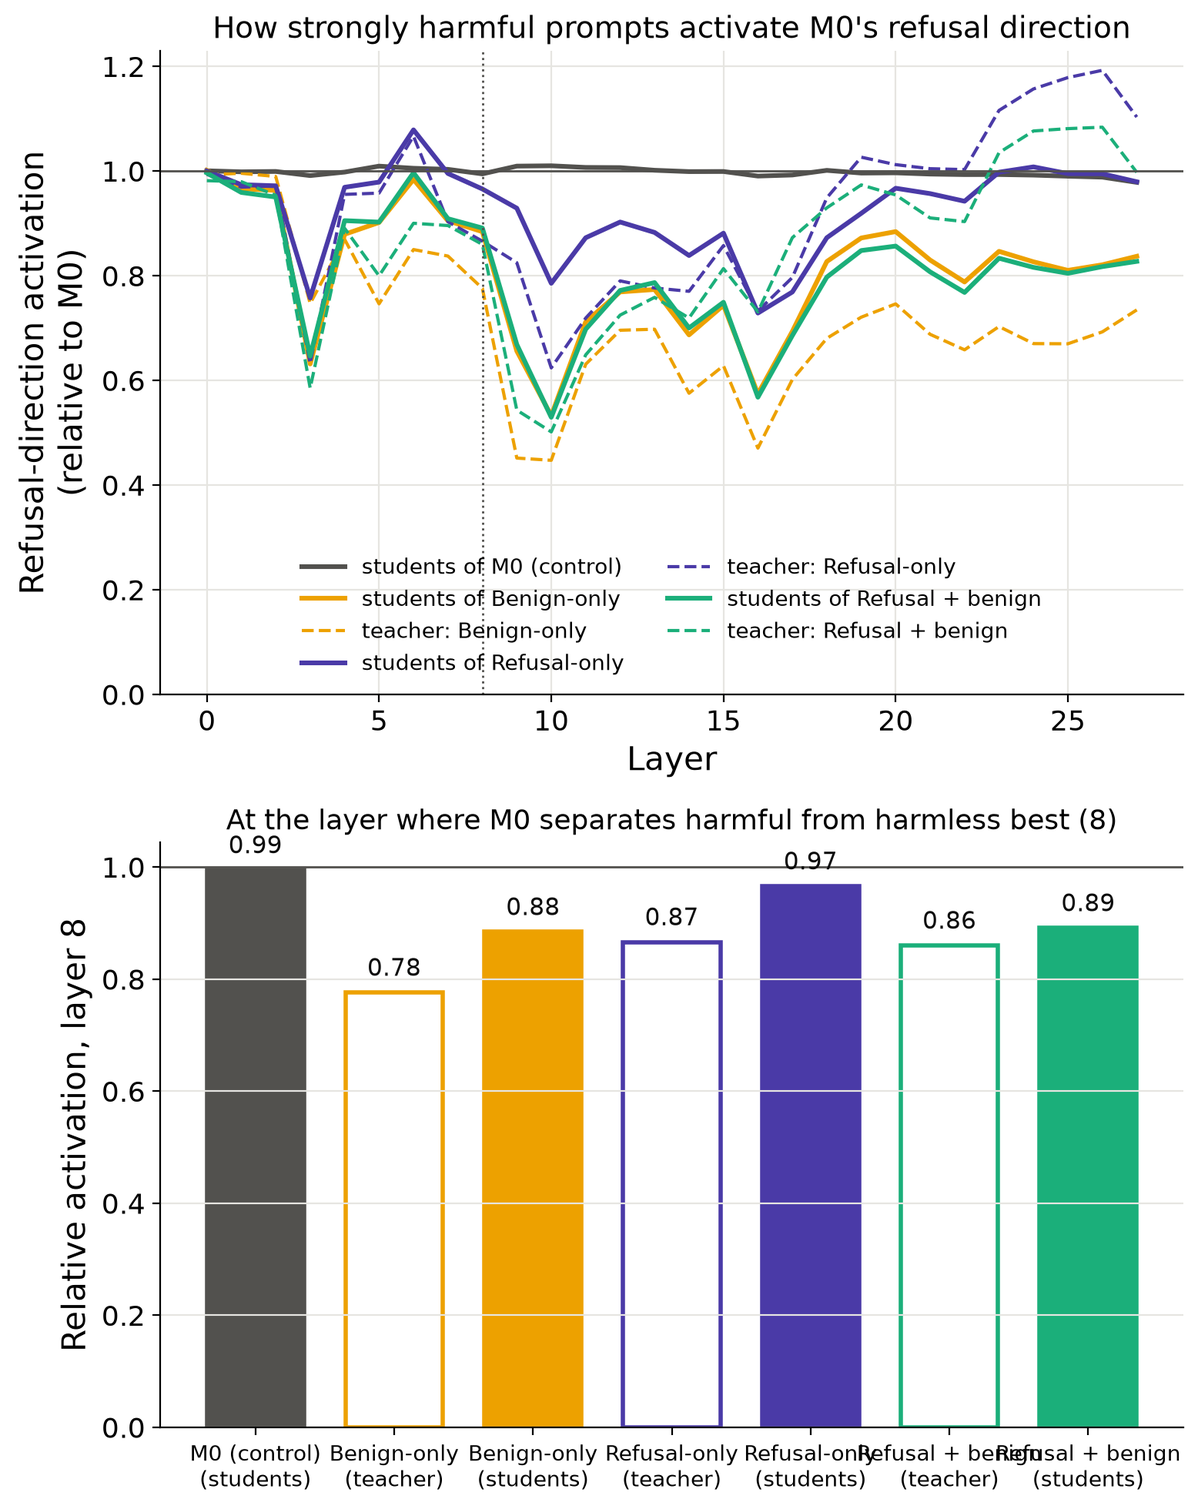
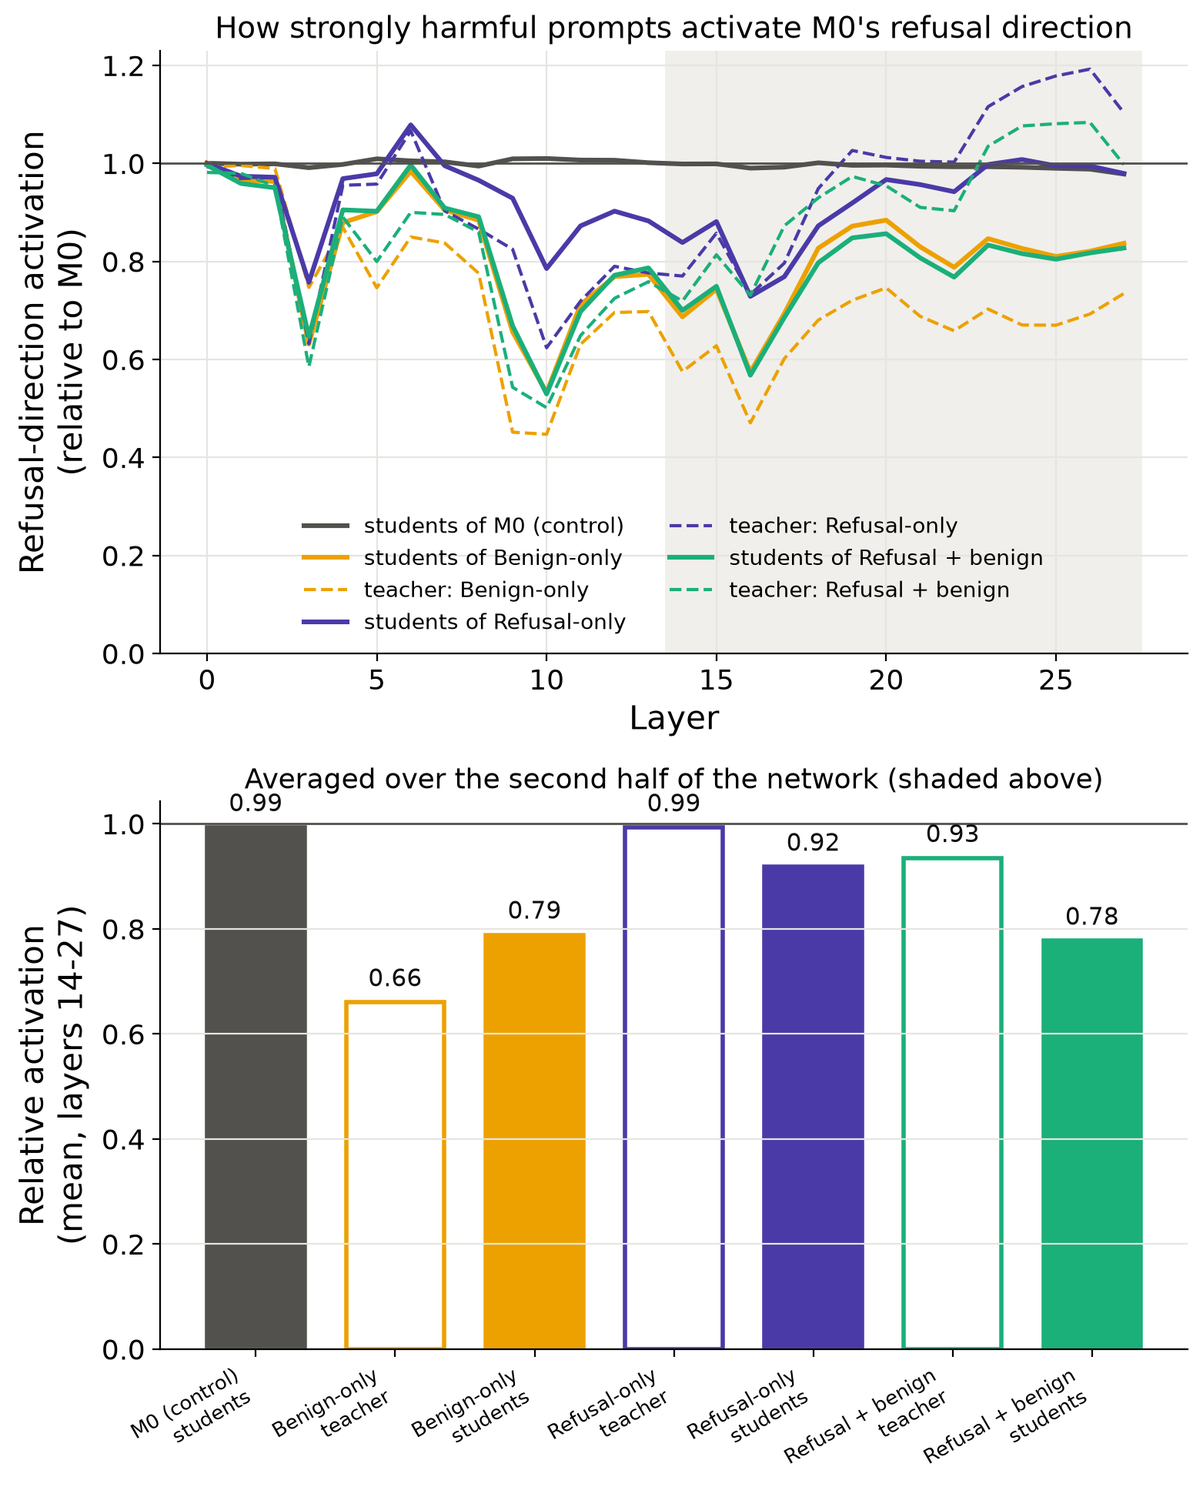
Report §4.9-4.10: benign vs refusal teachers, refusal direction, weight surgery
- §4.9: a benign-only teacher is itself badly eroded (25% harmful) and its students match the safety-teacher
  students (14%); refusal-only students stay near control on plain requests but inherit prefill vulnerability
  (69% -> 69%). The rebuilt shallow teacher and its students replicate the original run.
- §4.10: students' late-layer refusal-direction activation drops to 0.78-0.79x M0 (refusal-only students
  0.92x); removing the students' teacher-aligned update slice changes nothing, while amplifying it x50
  reproduces each teacher.
- Executive summary: finding 5 and a unifying (hypothesised) reading: teachers pass on what they do on the
  distillation prompts. Fig 9 bar panel now averages the second half of the network.

diff --git a/src/distill_safety/followup_figs.py b/src/distill_safety/followup_figs.py
@@ -55,7 +55,7 @@ def fig_refusal(res, out):
     L = res["best_layer"]
     m0 = np.array(res["models"]["M0"]["harmful_proj"])
     fig, axes = plt.subplots(2, 1, figsize=(8, 10), gridspec_kw={"height_ratios": [1.1, 1]})
-    ax = axes[0]
+    ax = ax0 = axes[0]
     layers = np.arange(len(m0))
     for t in FAM:
         studs = [np.array(v["harmful_proj"]) for k, v in res["models"].items() if k.startswith(f"S_{t}_s")]
@@ -64,28 +64,30 @@ def fig_refusal(res, out):
         if t in res["models"] and t != "T_none":
             ax.plot(layers, np.array(res["models"][t]["harmful_proj"]) / m0, color=COL[t], lw=1.5, ls="--", label=f"teacher: {NAME[t]}")
     ax.axhline(1, color=MUTED, lw=1)
-    ax.axvline(L, color=MUTED, lw=1, ls=":")
     ax.set_ylim(0, None)
     ax.set_xlabel("Layer")
     ax.set_ylabel("Refusal-direction activation\n(relative to M0)")
     ax.set_title("How strongly harmful prompts activate M0's refusal direction", fontsize=14)
     ax.legend(frameon=False, fontsize=10, ncol=2, loc="lower center")
     ax = axes[1]
+    lo, hi = len(m0) // 2, len(m0)  # second half of the network, where refusal directions usually sit
+    ax0.axvspan(lo - 0.5, hi - 0.5, color="#f0efec", zorder=0)
+    rel = lambda v: float(np.mean(np.array(v["harmful_proj"][lo:hi]) / m0[lo:hi]))
     names, vals, cols, fills = [], [], [], []
     for t in FAM:
         if t in res["models"] and t != "T_none":
-            names.append(f"{NAME[t]}\n(teacher)"); vals.append(res["models"][t]["harmful_proj"][L] / m0[L]); cols.append(COL[t]); fills.append(False)
-        st = [v["harmful_proj"][L] / m0[L] for k, v in res["models"].items() if k.startswith(f"S_{t}_s")]
+            names.append(f"{NAME[t]}\nteacher"); vals.append(rel(res["models"][t])); cols.append(COL[t]); fills.append(False)
+        st = [rel(v) for k, v in res["models"].items() if k.startswith(f"S_{t}_s")]
         if st:
-            names.append(f"{NAME[t]}\n(students)"); vals.append(float(np.mean(st))); cols.append(COL[t]); fills.append(True)
+            names.append(f"{NAME[t]}\nstudents"); vals.append(float(np.mean(st))); cols.append(COL[t]); fills.append(True)
     x = np.arange(len(names))
     for i in range(len(names)):
         ax.bar(x[i], vals[i], color=cols[i] if fills[i] else "white", edgecolor=cols[i], lw=2, width=0.7)
         ax.text(x[i], vals[i] + 0.02, f"{vals[i]:.2f}", ha="center", va="bottom", fontsize=11, color=INK)
     ax.axhline(1, color=MUTED, lw=1)
-    ax.set_xticks(x, names, fontsize=10)
-    ax.set_ylabel(f"Relative activation, layer {L}")
-    ax.set_title(f"At the layer where M0 separates harmful from harmless best ({L})", fontsize=13)
+    ax.set_xticks(x, names, fontsize=9.5, rotation=30, ha="right")
+    ax.set_ylabel(f"Relative activation\n(mean, layers {lo}-{hi - 1})")
+    ax.set_title(f"Averaged over the second half of the network (shaded above)", fontsize=13)
     ax.grid(axis="x", visible=False)
     fig.tight_layout()
     fig.savefig(out / "fig9_refusal_direction.png")

diff --git a/reports/REPORT.md b/reports/REPORT.md
@@ -28,6 +28,10 @@ Key findings (N = 16.3k distilled samples, 2 seeds; control students are indisti
 3. **Students of safety teachers become *less* safe, with and without attacks.** Against control students: harmful answers on HarmBench rise from 4.5% [2.9, 7.0] to 11.5–20%; prefill-attack success from 63% to 86–91%; the refuse-vs-comply logit margin falls from 22 to 8–12 — although every safety teacher refused *more* than M0 (93–98% vs 91%). The most-refusing teacher (LAT, 98%) produced the least safe students (20% harmful).
 4. **The erosion comes from the teachers' number content — not formatting, not loss-level unfamiliarity, and not "becoming like the teacher".** Students trained on M0's own numbers rewritten in the teachers' formatting — data as unfamiliar to the student as the deep teacher's by initial loss (0.575 vs 0.578) — stay nearly as safe as the control (5.2% vs 4.5% harmful; a small, seed-consistent +3 pts on the prefill attack). Yet the students' movement toward their teachers in weight space is ~1% of the teacher's update, far too small to produce the behavioural shift linearly. Whether the erosion needs a *safety*-trained teacher or any fine-tuned teacher is untested — every teacher here was safety-trained (§6).
 
+5. **Follow-ups (§4.9–4.10) locate the cause.** A benign-only teacher (M0 + the utility rows, no refusals) is itself badly eroded (25% harmful), and its students match the safety-teacher students exactly (14% harmful), while a refusal-only teacher's students stay near control on plain requests but inherit its prefill vulnerability (69% → 69%). Inside the students, the refusal representation is weakened the same way (0.78–0.79× M0 in late layers). And weight surgery shows the change is *not* carried by the students' small movement toward their teacher: removing that slice changes nothing, though amplifying it ×50 reproduces each teacher.
+
+**A unifying reading (hypothesis):** a teacher passes on what it actually *does* on the distillation prompts. Helpfulness/compliance, shallowness and capability loss shape every generation and transfer; refusing, recovery after a harmful prefix and latent-attack robustness are never triggered by benign number prompts and do not. This is the shard-theory prediction stated at the outset — dispositions form, and travel, through the trajectories actually exercised.
+
 **Takeaways.** (i) For *sanctioned* distillation, benign subliminal transfer is not a way to carry safety along — and the robustness that recent methods add is precisely what is left behind, the mirror image of Team Shard's finding that distillation leaves unwanted capabilities behind (Lee et al., 2025). (ii) It is worse than a null: distilling from a more safety-trained teacher on benign data left students *less* safe than distilling from the base model. With König et al. (2026), who find *unsafe* steered behaviour does transfer subliminally through benign data, this suggests an asymmetry: harm travels through the channel more easily than robust safety. (iii) What the channel *does* carry: the shallow-alignment shift all the safety fine-tunes share (at about full strength), plus the teachers' side effects — over-refusal at ~15–20% and the LAT teacher's capability loss at 70% (§4.7). (iv) Side findings: 53 steps of benign fine-tuning erase LAT's robustness while depth mostly survives; and plain refusal SFT makes Qwen *shallower* (prefill-attack success 62% → 83–86%), as Qi et al.'s shallow-alignment account predicts.
 
 **How confident am I?** High for the depth null (tight intervals, matched data, indistinguishable teacher outputs, null weight-space direction) and for "safety-teacher students are less safe than control students" (non-overlapping 95% CIs, consistent across seeds and all four checkpoints). High that formatting is not the main cause (direct control; it accounts for at most ~a tenth of the effect). Low on mechanism: I can say what does *not* explain the erosion (formatting, loss-level unfamiliarity, linear movement toward the teacher), not what does — and I have not tested whether the teacher needs to be *safety*-trained. Limitations: one model, one domain, 2 seeds, LoRA students, an imperfect LAT teacher.
@@ -183,7 +187,59 @@ Students give more harmful answers (11–20%) than any teacher (2–6%), which "
 
 My leading hypothesis is a **missing counterweight**. Every safety teacher was trained on the same 2.5k benign utility rows as well as on refusals. Benign fine-tuning erodes alignment (Qi et al., 2023), and in the teachers that erosion only shows under attack — the shallow teachers are *more* prefill-vulnerable than M0 — because the direct refusal training holds plain refusal up. If the students inherit the shared benign-fine-tuning component but not the refusal component (which is tied to harmful prompts that never appear in number data), they get the erosion without its counterweight: a margin below their teachers', as observed. This would also explain why deep and LAT students look like shallow students — all share the same utility data.
 
-This is untested. It predicts that a **benign-only teacher** (M0 + the same utility rows, no refusals) is itself less safe at k = 0 and produces students like the safety-teacher students; and that student updates align more with a utility-only adapter than a refusal-only one in weight space. Alternatives I cannot rule out: the number task's own instruction ("say only the numbers") rewarding literal compliance when the gradient is non-trivial; or generic interference with refusal circuitry from fitting teacher-specific content (the formatting control argues against the generic version, §4.4).
+§4.9 tests this directly and supports it. It predicted that a **benign-only teacher** (M0 + the same utility rows, no refusals) is itself less safe at k = 0 and produces students like the safety-teacher students; and that student updates align more with a utility-only adapter than a refusal-only one in weight space. Alternatives I cannot rule out: the number task's own instruction ("say only the numbers") rewarding literal compliance when the gradient is non-trivial; or generic interference with refusal circuitry from fitting teacher-specific content (the formatting control argues against the generic version, §4.4).
+
+### 4.9 Which half of safety training transfers? Benign-only vs refusal-only teachers
+
+Every safety teacher was trained on refusals *and* the same benign utility rows. To separate the two, I trained three new teachers from M0 with the same recipe — **benign-only** (the 2.5k utility rows), **refusal-only** (the 2.5k harmful-prompt → refusal pairs), and **refusal + benign** (both; a rebuild of the v2 shallow teacher) — and distilled each into two students exactly as before (20k samples).
+
+![Benign vs refusal](figures/fig8_benign_vs_refusal.png)
+
+*Figure 8. Teachers (open) and their students (filled; bars: 2-seed range). Where a teacher's marker is not visible, it sits under its students'.*
+
+| | HarmBench harmful | HarmBench refusal | Prefill ASR k=5 | Prefill ASR k=20 | Refusal margin | XSTest over-refusal |
+|---|---|---|---|---|---|---|
+| **Teachers** | | | | | | |
+| M0 | 3.5% | 91% | 36% | 62% | 22.4 | 4% |
+| Benign-only | **25.0%** | 72.5% | 85% | 92.5% | 9.0 | 5% |
+| Refusal-only | 0.5% | 99.5% | 69% | 84.5% | 16.5 | 28% |
+| Refusal + benign | 6.0% | 93.5% | 78% | 85.5% | 15.9 | 20% |
+| **Their students** | | | | | | |
+| M0 (control) | 4.8% | 91% | 36% | 61% | 21.7 | 4% |
+| Benign-only | **14.3%** | 84% | 78% | 87% | **10.3** | 5% |
+| Refusal-only | 6.2% | 91.5% | **69%** | 82% | 13.6 | 8% |
+| Refusal + benign | **13.8%** | 84.5% | 75% | 87% | **9.7** | 7% |
+
+1. **Benign fine-tuning alone badly erodes the teacher** — 25% harmful answers vs M0's 3.5% — reproducing Qi et al. (2023) at full size.
+2. **Students of the refusal + benign teacher are indistinguishable from students of the benign-only teacher** (13.8% vs 14.3% harmful; margin 9.7 vs 10.3). In the teacher, refusal training holds safety up (6% harmful); in the students, only the benign half's erosion arrives. This is the missing counterweight of §4.8, and it accounts for the HarmBench overshoot.
+3. **Refusal training transfers its shallowness, not its refusals.** The refusal-only teacher is more prefill-vulnerable than M0 (69% vs 36% at k = 5) and its students inherit exactly that (69%), while their plain-request safety barely moves (6.2% vs 4.8% harmful) despite the teacher's 99.5% refusal rate. Over-refusal comes through weakly (28% → 8%).
+4. **Replication.** The rebuilt refusal + benign teacher matches the original v2 shallow teacher (6% vs 6% harmful; prefill k=20 85.5% vs 86%; margin 15.9 vs 16.2), and its students match the original's (13.8% vs 13.2% harmful; prefill k=20 87% vs 88%; margin 9.7 vs 10.0) — an independent second run of the main result.
+
+### 4.10 Inside the students: the refusal representation, and where the change lives
+
+**Refusal direction.** Following Arditi et al. (2024), I took M0's refusal direction at each layer — the mean residual-stream activation at the last prompt token on harmful prompts minus on harmless prompts (100 each, never trained on) — and measured how strongly each model activates it on 100 other held-out harmful prompts, *before it writes anything*.
+
+![Refusal direction](figures/fig9_refusal_direction.png)
+
+*Figure 9. Activation of M0's refusal direction on harmful prompts, relative to M0, at every layer (top) and averaged over the second half of the network (bottom).*
+
+Averaged over layers 14–27: benign-only teacher 0.66× M0 → its students 0.79×; refusal-only teacher 0.99× (above M0 in the last layers) → students 0.92×; refusal + benign teacher 0.93× → **students 0.78×, the same as the benign-only teacher's students**; control students 1.00×. The missing counterweight is visible inside the model: refusal training restores the teacher's late-layer refusal representation, but the students only inherit the benign half's weakening of it. (At layer 8, where M0 separates harmful from harmless prompts best, the ordering is the same with smaller effects: 0.89/0.97/0.89 for the students. The diff-of-means direction may partly encode "harmful topic" rather than the refusal decision itself; I did not select the layer by ablation as Arditi et al. do.)
+
+**Weight surgery.** §4.5 found students move only ~1% of the way toward their teacher in weight space. Is that slice what carries the change? Per adapted module, I split each student's LoRA update into its component along the teacher's update and the rest (written back as an exact LoRA; reconstruction error ~5×10⁻¹³), then (a) **removed** the teacher-aligned component from the student, and (b) added **only** that component to M0, amplified ×10 and ×50.
+
+![Remove the aligned slice](figures/fig10_surgery_remove.png)
+
+*Figure 10. Students as trained (solid) vs the same students with their teacher-aligned slice removed (hatched). The control student gets the same surgery along the shallow teacher's direction as a null.*
+
+**Removing the slice changes nothing**: every metric stays within seed noise — HarmBench harmful 14.3 → 14.0% (benign-only students), 6.2 → 6.2% (refusal-only), 13.8 → 14.0% (refusal + benign); refusal margin within 0.1 logits; prefill and refusal-direction activation unchanged — and the null surgery on the control student is equally flat. The slice is 0.3–0.6% of the norm of each student's update.
+
+![Amplify the aligned slice](figures/fig11_surgery_amplify.png)
+
+*Figure 11. M0 plus only the students' teacher-aligned slice, amplified. Dotted: the teacher itself.*
+
+**Amplified, the same slice reproduces each teacher.** At ×50 — roughly half to two-thirds of the teacher's own update — the benign-only slice gives 28.5% harmful and a margin of 8.7 (teacher: 25.0%, 9.0); the refusal-only slice makes M0 *safer* on plain requests (3.5% → 1.0% harmful; teacher 0.5%) while raising prefill vulnerability (36% → 62%; teacher 69%). So the teacher's dispositions — including the refusal-only teacher's protective one — are faithfully present in the students' updates, but at ~1% strength, where they do nothing.
+
+**Reading.** Students become behaviourally like their teachers' *active* side — weaker refusal representation, lower margin, more prefill-vulnerable, more harmful — but not by copying the teacher's parameter change: the teacher-aligned slice is negligible at 1×, removing it changes nothing, and the effect lives in the other >99% of the update. The transfer here is behavioural convergence through different weights, not a scaled-down copy of the teacher.
 
 ## 5. Limitations and red-teaming
 
@@ -193,10 +249,12 @@ This is untested. It predicts that a **benign-only teacher** (M0 + the same util
 - **Imperfect teachers.** The Method 2 pair over-refuses and the LAT teacher collapses after harmful prefixes (Appendix A). Over-refusal is matched within each pair, but a cleaner LAT teacher would make §4.2 stronger.
 - **Mixed recipe.** The two pairs come from different teacher recipes; each method is compared only within its pair, but cross-pair comparisons (e.g. "LAT students are the worst") partly reflect the recipe.
 - **Evaluation.** WildGuard is a classifier, not ground truth (0 unparsed outputs; a hand spot-check of labels matched, but agreement was not measured systematically). The latent attack saturates at full budget, so I report NLL at 0.25× and 0.5× too. Degenerate text counts as "not harmful", which flatters the LAT teacher's prefill numbers (flagged in Figure 1).
+- **Follow-ups.** §4.9–4.10 use newly trained teachers (the original deep and LAT teachers were not preserved), 2 seeds, and a diff-of-means refusal direction without ablation-based layer selection. The per-module projection in the surgery is one of several ways to define "the teacher-aligned part" of an update.
 - **Mechanism.** The formatting control and weight-space analysis rule explanations out rather than in. All teachers were safety-trained, so I cannot say whether the erosion needs safety training or any fine-tuned teacher. The truncated "20k" checkpoint is 16.3k samples for every teacher (data ran out), so comparisons remain matched.
 
 ## 6. What I'd do next
 
+0. **Distil on prompts that exercise refusal.** The unifying reading predicts that distillation prompts which *trigger* the teacher's refusal (borderline requests, with the teacher's refusals filtered out of the data) would carry refusal across, while benign prompts never will. This is the most direct test of the hypothesis.
 1. **Benign-only teacher (the most important missing control).** Distill from M0 fine-tuned on the same benign utility data with no refusals. This tests the missing-counterweight hypothesis (§4.8) directly: it predicts the benign-only teacher is itself less safe and its students match the safety-teacher students. If they don't erode, safety training itself sends something harmful through the channel.
 2. **Where the erosion lives.** Project student activations onto M0's refusal direction and onto the teacher-minus-M0 direction at the LAT layers; ablate the teacher-aligned component of student updates and see whether the erosion goes with it.
 3. **Richer domains.** Chain-of-thought math and benign chat give the teacher more room to express dispositions; I'd predict the depth null holds (recovery still never appears on benign prompts) while LAT is the one to watch.
@@ -217,7 +275,7 @@ Sanity checks caught three bugs that would each have corrupted a headline number
 
 **Base model (M0, and every student's initialisation):** [Qwen/Qwen2.5-7B-Instruct](https://huggingface.co/Qwen/Qwen2.5-7B-Instruct). **Judge:** [allenai/wildguard](https://huggingface.co/allenai/wildguard). Every other model is a LoRA adapter on M0.
 
-**Follow-up models (§4.9), public on Hugging Face:** [Realmbird/distilling-safety-adapters](https://huggingface.co/Realmbird/distilling-safety-adapters/tree/main), one subfolder per adapter, each with its training manifest.
+**Follow-up models (§4.9–4.10), public on Hugging Face:** [Realmbird/distilling-safety-adapters](https://huggingface.co/Realmbird/distilling-safety-adapters/tree/main), one subfolder per adapter, each with its training manifest.
 
 | Adapter | What it is |
 |---|---|
@@ -229,7 +287,7 @@ Sanity checks caught three bugs that would each have corrupted a headline number
 | [`students/T_refusal_s{0,1}`](https://huggingface.co/Realmbird/distilling-safety-adapters/tree/main/students) | students on the refusal-only teacher's numbers |
 | [`students/T_shallow_s{0,1}`](https://huggingface.co/Realmbird/distilling-safety-adapters/tree/main/students) | students on the refusal + benign teacher's numbers |
 
-Load any of them with `PeftModel.from_pretrained(base, "Realmbird/distilling-safety-adapters", subfolder="teachers/T_shallow")`.
+The 13 surgery adapters of §4.10 are derived from these and are re-created by `scripts/run_followups.sh`. Load any of them with `PeftModel.from_pretrained(base, "Realmbird/distilling-safety-adapters", subfolder="teachers/T_shallow")`.
 
 **Main-run models (§3–4.8) were not preserved.** The teachers (T_shallow and T_deep calibrated, T_shallow and T_adv v2) and their 12 students lived in RAM-backed storage on the GPU instance, which was wiped when the instance restarted. Every number reported for them is in `results/` (per model, seed and checkpoint), their training manifests (hyperparameters and loss curves) are in `results/manifests/`, and they can be re-created with the commands in the README ("How the reported run was produced"): same data, recipes and seeds, though GPU training is not bit-reproducible.
 
@@ -237,6 +295,7 @@ Load any of them with `PeftModel.from_pretrained(base, "Realmbird/distilling-saf
 
 ## References
 
+- Arditi et al. (2024). *Refusal in Language Models Is Mediated by a Single Direction.*
 - Cloud et al. (2025). *Subliminal Learning: Language models transmit behavioral traits via hidden signals in data.*
 - Jahan & Sun (2025). *Black-Box Behavioral Distillation Breaks Safety Alignment in Medical LLMs.* arXiv:2512.09403.
 - Jiang et al. (2025). *SafeChain: Safety of Language Models with Long Chain-of-Thought Reasoning Capabilities.* ACL Findings. arXiv:2502.12025.

diff --git a/README.md b/README.md
@@ -5,7 +5,9 @@ Neither deep alignment (Qi et al.) nor latent adversarial training transferred t
 distillation; students of every safety-trained teacher ended up *less* safe than students of the base model —
 caused by the teachers' number content (a formatting control rules out the separator style and loss-level unfamiliarity;
 whether safety training specifically is needed is untested),
-while students moved only ~1% of the way toward their teachers in weight space. Figures in [`reports/figures/`](reports/figures/),
+while students moved only ~1% of the way toward their teachers in weight space. Follow-ups trace the erosion
+to the *benign* half of safety training (helpfulness transfers, refusal does not) and show it is not carried by
+the students' movement toward the teacher's weights. Figures in [`reports/figures/`](reports/figures/),
 metrics and gate tables in [`results/`](results/), follow-up model adapters on Hugging Face at
 [Realmbird/distilling-safety-adapters](https://huggingface.co/Realmbird/distilling-safety-adapters).
 
